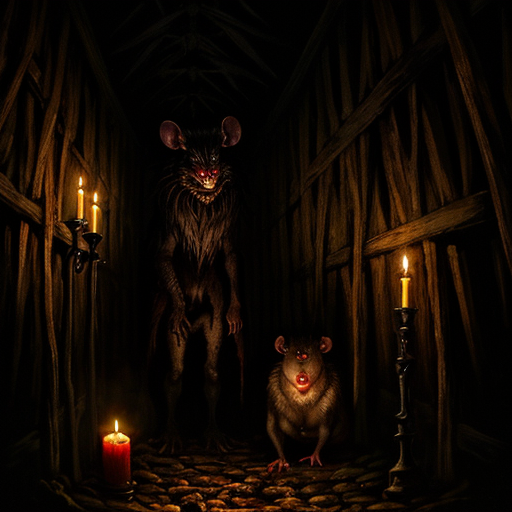
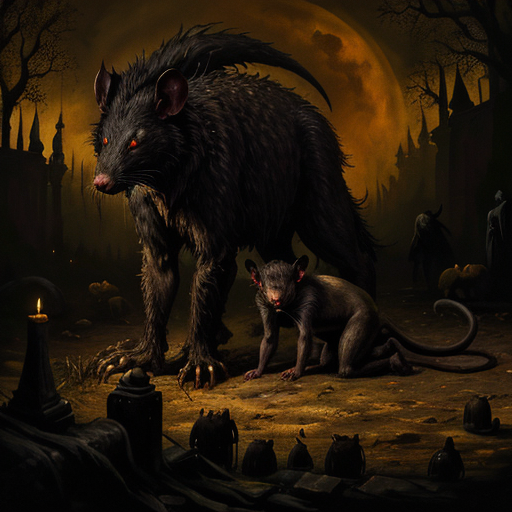
P4-03c: final rats and campesino picks; handoff
Claude-Session: https://claude.ai/code/session_01Cq1nngxamBaEXzwsTjzGY7

diff --git a/docs/HANDOFF.md b/docs/HANDOFF.md
@@ -17,6 +17,20 @@ Newest entry first. Every agent session ends by adding an entry here (rules: [..
 
 ---
 
+## 2026-11-07 — P4-03c — Art fixes
+- **Agent / branch:** Claude Code (cloud) / `betomm/sleepy-ramanujan-78dwh9`
+- **Status after session:** P4-03c: review
+- **Changed:**
+  - `tools/sd_local.py`: `--try-seeds N --preview-dir DIR` writes candidates (seed, seed+1, …) outside `assets/`. There's an optional per-asset `post` (brightness/contrast).
+  - `tools/art_manifest.json`: new subjects/seeds for the 6 fixed assets; map icons get `post` brightening
+  - `assets/`: segua_boss, rata_de_troje, nuboso_spectre, duende_sotano, campesino, medica_josefina, and all 6 map icons regenerated (metadata updated)
+- **Verified:** `python3 tools/validate_data.py` → 0 errors. I picked each image by eye from 3 candidates (6 for rats and campesino).
+- **Not verified / risks:** Not checked in Godot. Picked images were copied from previews, so their metadata timestamps are preview times; the seeds match the manifest.
+- **Decisions needed:** Owner to look at the art in-game and approve or list further fixes.
+- **Next step:** Start **P1-02** (multi-enemy squads): open `scripts/combat/combat_scene.gd` and replace the single `_enemy` dict with an `_enemies` array.
+
+---
+
 ## 2026-11-07 — P2-07, P2-04 (roster), P4-03a/b — Bosque hidden, roster approved, slice art generated
 - **Agent / branch:** Claude Code (cloud) / `betomm/sleepy-ramanujan-78dwh9`
 - **Status after session:** P2-07: done · P2-04: roster checkbox done (data still todo) · P4-03a: done · P4-03b: review · P2-03: portrait checkbox done
